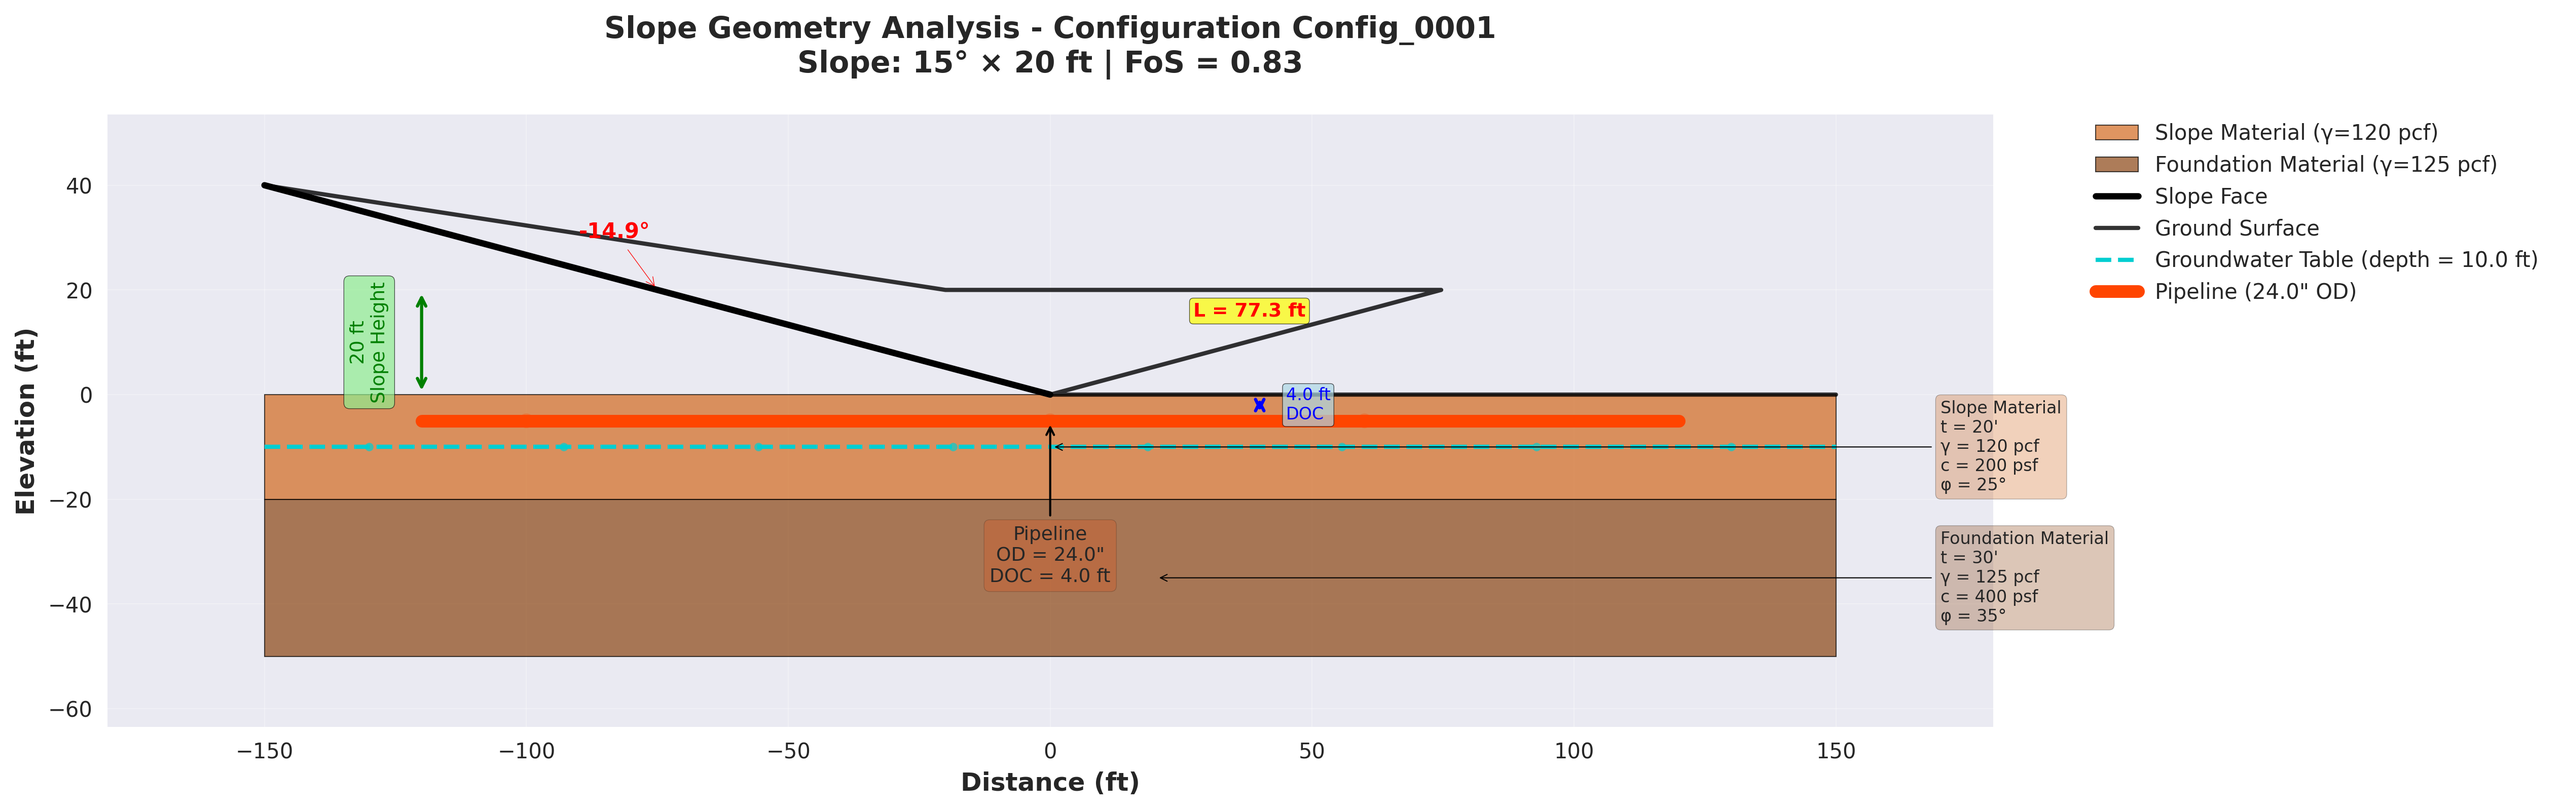
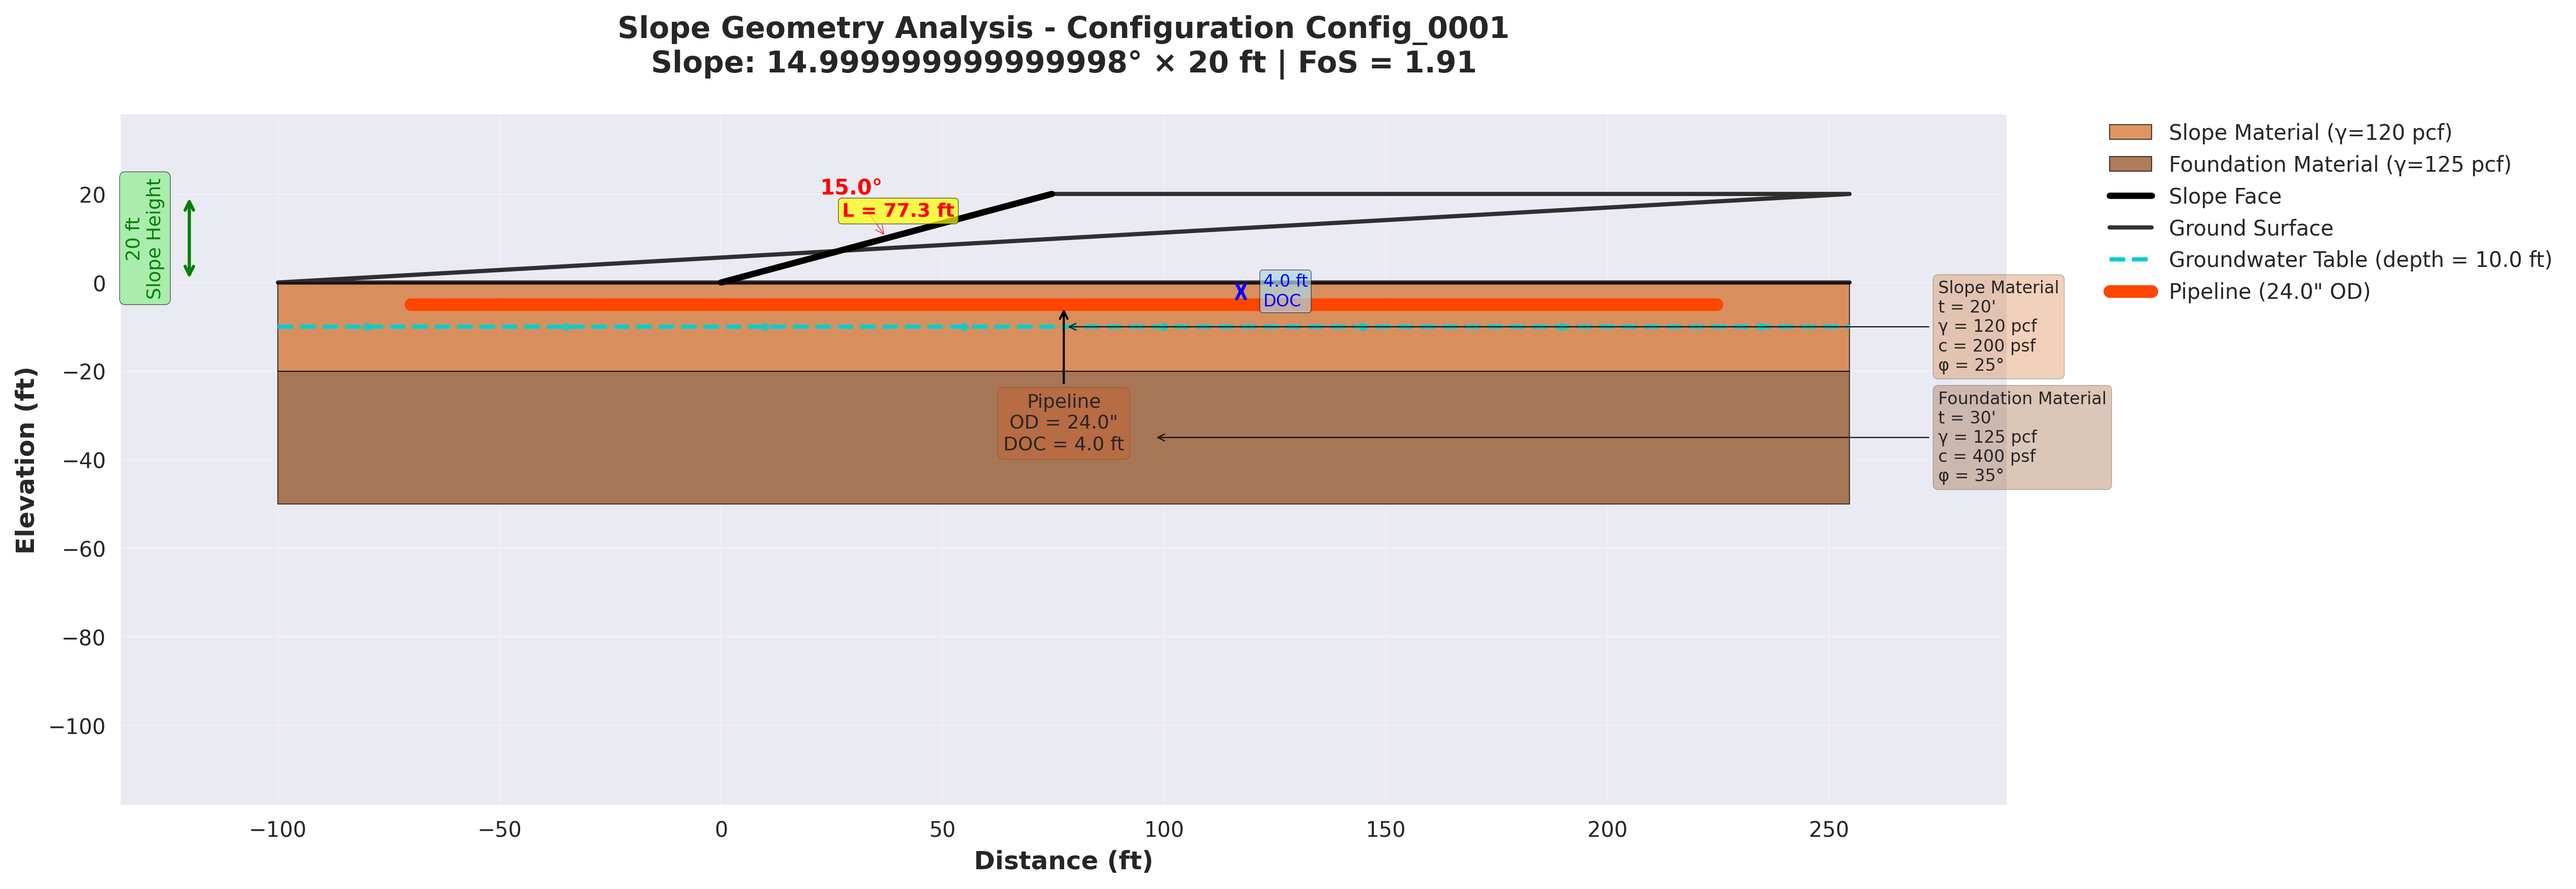
fixing geometry

diff --git a/EMPCO/slope_stability_automation.py b/EMPCO/slope_stability_automation.py
@@ -15,12 +15,92 @@ import json
 
 
 @dataclass
+class GeometryPoint:
+    """Defines a geometry point with coordinates and constraints"""
+    id: int
+    x: float  # feet
+    y: float  # feet
+    label: str  # Point label/description
+    pinned: bool  # Whether the point is fixed in position
+
+@dataclass
 class SlopeGeometry:
-    """Defines slope geometry parameters"""
-    slope_angle: float  # degrees
-    slope_height: float  # feet
-    bench_width: float  # feet (0 for continuous slope)
-    toe_distance: float  # feet from toe to analysis point
+    """Defines slope geometry using coordinate points"""
+    points: List[GeometryPoint]
+    
+    @property
+    def slope_angle(self) -> float:
+        """Calculate slope angle from toe to crest points"""
+        # Points 1 (0,0) and 2 (20,20) define the slope face
+        toe_point = next(p for p in self.points if p.id == 1)
+        crest_point = next(p for p in self.points if p.id == 2)
+        
+        dx = crest_point.x - toe_point.x
+        dy = crest_point.y - toe_point.y
+        
+        if dx == 0:
+            return 90.0
+        
+        angle_rad = np.arctan(dy / dx)
+        return np.degrees(angle_rad)
+    
+    @property 
+    def slope_height(self) -> float:
+        """Calculate slope height from toe to crest points"""
+        toe_point = next(p for p in self.points if p.id == 1)
+        crest_point = next(p for p in self.points if p.id == 2)
+        return crest_point.y - toe_point.y
+    
+    @property
+    def slope_length(self) -> float:
+        """Calculate horizontal slope length"""
+        toe_point = next(p for p in self.points if p.id == 1)
+        crest_point = next(p for p in self.points if p.id == 2)
+        dx = crest_point.x - toe_point.x
+        dy = crest_point.y - toe_point.y
+        return np.sqrt(dx**2 + dy**2)
+    
+    @classmethod
+    def create_standard_slope(cls, slope_angle: float, slope_height: float) -> 'SlopeGeometry':
+        """Create standard slope geometry from angle and height (for backward compatibility)"""
+        # Calculate slope length based on angle and height
+        slope_length = slope_height / np.tan(np.radians(slope_angle))
+        
+        points = [
+            GeometryPoint(1, 0, 0, "Point+Number", True),  # Toe
+            GeometryPoint(2, slope_length, slope_height, "Point+Number", True),  # Crest
+            GeometryPoint(3, slope_length + 180, slope_height, "Point+Number", True),  # Plateau
+            GeometryPoint(4, -100, 0, "Point+Number", True),  # Left boundary at toe level
+            GeometryPoint(5, -100, -100, "Point+Number", True),  # Bottom left
+            GeometryPoint(6, slope_length + 180, -100, "Point+Number", True),  # Bottom right
+            GeometryPoint(7, slope_length + 180, 0, "Point+Number", False),  # Right boundary at toe level
+        ]
+        
+        return cls(points=points)
+    
+    @classmethod
+    def create_specified_slope(cls) -> 'SlopeGeometry':
+        """Create slope geometry with the exact coordinates from GeoStudio template"""
+        points = [
+            GeometryPoint(1, 0, 0, "Point+Number", True),        # Toe of slope
+            GeometryPoint(2, 20, 20, "Point+Number", True),      # Top of slope face  
+            GeometryPoint(3, 200, 20, "Point+Number", True),     # Top of slope plateau
+            GeometryPoint(4, -100, 0, "Point+Number", True),     # Left boundary
+            GeometryPoint(5, -100, -100, "Point+Number", True),  # Bottom left
+            GeometryPoint(6, 200, -100, "Point+Number", True),   # Bottom right
+            GeometryPoint(7, 200, 0, "Point+Number", False),     # Right boundary (not pinned)
+            # Additional points for soil layer boundaries (from template)
+            GeometryPoint(8, -100, -20, "Point+Number", True),   # Left at -20 ft
+            GeometryPoint(9, 200, -20, "Point+Number", True),    # Right at -20 ft
+            GeometryPoint(10, -100, -40, "Point+Number", True),  # Left at -40 ft
+            GeometryPoint(11, 200, -40, "Point+Number", True),   # Right at -40 ft
+            GeometryPoint(12, -100, -60, "Point+Number", True),  # Left at -60 ft
+            GeometryPoint(13, 200, -60, "Point+Number", True),   # Right at -60 ft
+            GeometryPoint(14, -100, -80, "Point+Number", True),  # Left at -80 ft
+            GeometryPoint(15, 200, -80, "Point+Number", True),   # Right at -80 ft
+        ]
+        
+        return cls(points=points)
 
 
 @dataclass
@@ -98,25 +178,9 @@ class GeoStudioXMLHandler:
                 self._update_material_properties(eff_mat, layer, stress_type='effective')
     
     def _calculate_slope_points(self, geometry: SlopeGeometry) -> List[Tuple[float, float]]:
-        """Calculate point coordinates for slope geometry"""
-        points = []
-        
-        # Simplified slope geometry calculation
-        # This would be expanded for complex geometries
-        slope_rad = np.radians(geometry.slope_angle)
-        
-        # Example points for a simple slope
-        points = [
-            (0, 0),  # Toe
-            (geometry.slope_height / np.tan(slope_rad), geometry.slope_height),  # Crest
-            (geometry.toe_distance, 0),  # Extended toe
-            (-100, 0),  # Left boundary
-            (-100, -100),  # Left bottom
-            (200, -100),  # Right bottom
-            (200, 0),  # Right boundary
-        ]
-        
-        return points
+        """Extract point coordinates directly from geometry points"""
+        # Convert GeometryPoint objects to coordinate tuples
+        return [(point.x, point.y) for point in geometry.points]
     
     def _update_material_properties(self, material_elem, layer: SoilLayer, stress_type: str):
         """Update individual material properties"""
@@ -196,12 +260,8 @@ class SlopeStabilityAnalyzer:
         for angle in slope_angles:
             for height in slope_heights:
                 for soil_scenario in soil_strength_scenarios:
-                    geometry = SlopeGeometry(
-                        slope_angle=angle,
-                        slope_height=height,
-                        bench_width=0,  # Continuous slope
-                        toe_distance=50
-                    )
+                    # Use the exact coordinate specification instead of calculated geometry
+                    geometry = SlopeGeometry.create_specified_slope()
                     
                     config = SlopeConfiguration(
                         config_id=f"Config_{config_id:03d}",

diff --git a/EMPCO/slope_geometry_visualizer.py b/EMPCO/slope_geometry_visualizer.py
@@ -133,6 +133,17 @@ class SlopeGeometryVisualizer:
         
         return points
     
+    def _calculate_slope_boundary_points(self, geometry: SlopeGeometry) -> List[Tuple[float, float]]:
+        """Calculate slope boundary points from the coordinate-based geometry system"""
+        # Extract the primary slope boundary points (first 7 points define the slope boundary)
+        boundary_points = []
+        
+        # Get the main slope defining points
+        for point in geometry.points[:7]:  # First 7 points define the slope boundary
+            boundary_points.append((point.x, point.y))
+        
+        return boundary_points
+    
     def _plot_soil_layers(self, ax, geometry: SlopeGeometry, soil_layers: List[SoilLayer], 
                          slope_points: List[Tuple[float, float]]):
         """Plot soil layers with different colors and patterns"""
@@ -411,9 +422,9 @@ class SlopeGeometryVisualizer:
                 'angle_degrees': geometry.slope_angle,
                 'height_ft': geometry.slope_height,
                 'horizontal_run_ft': slope_run,
-                'slope_length_ft': slope_length,
-                'bench_width_ft': geometry.bench_width,
-                'toe_distance_ft': geometry.toe_distance
+                'slope_length_ft': geometry.slope_length,
+                'bench_width_ft': 0,  # No benches in current coordinate system
+                'toe_distance_ft': 50  # Standard value
             },
             'soil_layers': [
                 {
@@ -571,12 +582,7 @@ def main():
     """Test function for slope geometry visualization"""
     
     # Create test configuration
-    test_geometry = SlopeGeometry(
-        slope_angle=30,
-        slope_height=60,
-        bench_width=0,
-        toe_distance=50
-    )
+    test_geometry = SlopeGeometry.create_standard_slope(30, 60)
     
     test_soil_layers = [
         SoilLayer("Weak Clay", 115, 100, 50, 15, 25),

diff --git a/EMPCO/parameter_input_system.py b/EMPCO/parameter_input_system.py
@@ -368,13 +368,8 @@ class ParameterInputManager:
                 for gw_ratio in parameters.groundwater_ratios:
                     for soil_scenario in parameters.soil_scenarios:
                         
-                        # Create geometry
-                        geometry = SlopeGeometry(
-                            slope_angle=angle,
-                            slope_height=height,
-                            bench_width=0,  # Simple slope
-                            toe_distance=50
-                        )
+                        # Create geometry using coordinate-based system
+                        geometry = SlopeGeometry.create_standard_slope(angle, height)
                         
                         # Create soil layers - ensure exactly 2 layers (slope material + foundation material)
                         soil_layers = []
